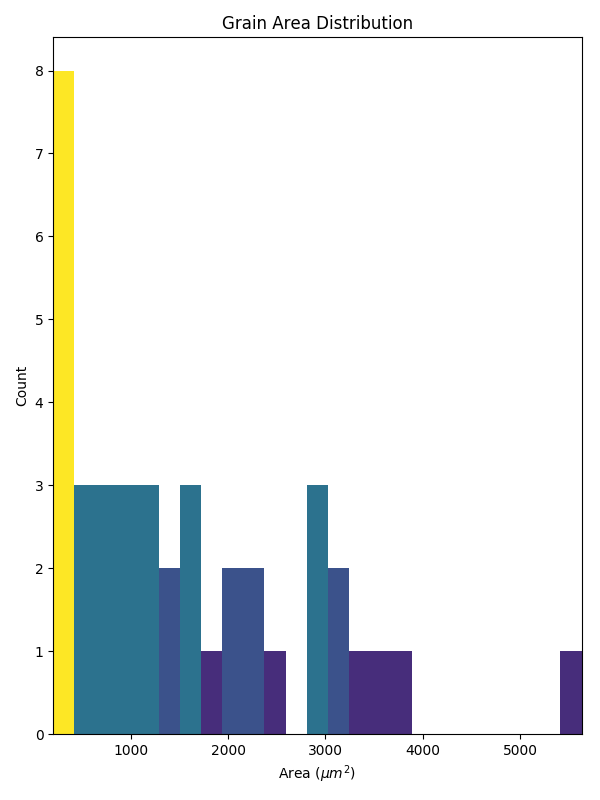
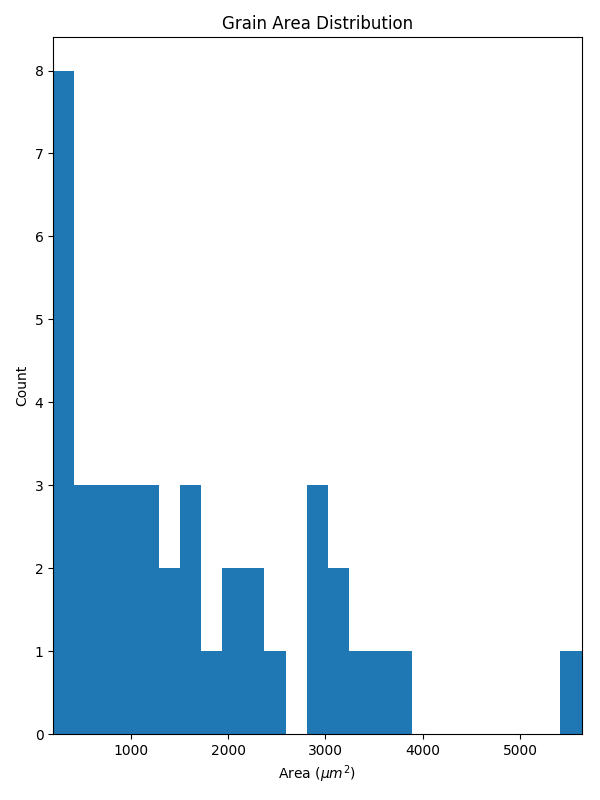
updates to examples and docs

Changed region(s): [[0.09, 0.0625, 0.48, 0.9375], [0.51, 0.5938, 0.69, 0.9375], [0.93, 0.8125, 0.99, 0.9375]]

diff --git a/grains/analysis.py b/grains/analysis.py
@@ -12,12 +12,13 @@ class GrainsAnalyzer(object):
 
     Determines the number and area distribution of grains 
     in a given image with built-in text summarization.
-    
-    Attributes:
+
+    Args:
         input_fn:       filename of the image being analyzed.
         height_microns: height of the image content in micrometers.
         width_microns:  width of the image content in micrometers.
-
+    
+    Attributes:
         base_image:     input image as an array.
         working_image:  input_image as an array after preprocessing.
         contours:       OpenCV contours detected in the working_image.
@@ -26,7 +27,7 @@ class GrainsAnalyzer(object):
     """
 
     def __init__(self, input_fn, height_microns, width_microns):
-        """Inits GrainsAnalyzer object with required information
+        """Inits GrainsAnalyzer object with required information.
         
         Args:
             input_fn:       filename of the image being analyzed
@@ -50,7 +51,7 @@ class GrainsAnalyzer(object):
 
     @property
     def total_count(self):
-        """Returns the number of grains detected.
+        """(int) The number of grains detected.
         
         Raises:
             ContoursError
@@ -62,12 +63,11 @@ class GrainsAnalyzer(object):
 
     @property
     def areas(self):
-        """Returns the area of each detected grain in square micrometers.
+        """(list of float): The area of each detected grain in square micrometers.
         
         Raises:
             ContoursError
         """
-
         # check runtime order
         if self.contours is None:
             raise errors.ContoursError("self.contours has not yet been set.\nRun Grains().set_contours to do so.")
@@ -81,22 +81,19 @@ class GrainsAnalyzer(object):
 
     @property
     def area_mean(self):
-        """Returns the mean grain area in micrometers squared (ASTM E112 planimetric method)."""
-
+        """(float): The mean grain area in micrometers squared (ASTM E112 planimetric method)."""
         mean = np.sum(self.areas)/len(self.areas)
         return mean
 
     @property
     def area_variance(self):
-        """Returns the variance of grain areas in micrometers squared."""
-
+        """(float): The variance of grain areas in micrometers squared."""
         var = np.var(self.areas)
         return var
 
     @property
     def area_stdev(self):
-        """Returns the standard deviation of grain areas in micrometers squared."""
-
+        """(float): The standard deviation of grain areas in micrometers squared."""
         stdev = np.std(self.areas)
         return stdev
 
@@ -112,8 +109,10 @@ class GrainsAnalyzer(object):
             maxval:     passed to cv2.threshold()
             kernel:     passed to cv2.threshold()
             iterations: passed to cv2.morphologyEx() for the `MORPH_OPEN` operation 
+        
+        Returns:
+            None
         """
-
         # process args
         if thresh is None:
             thresh = 50
@@ -139,8 +138,10 @@ class GrainsAnalyzer(object):
         
         Raises:
             WorkingImageError
-        """
 
+        Returns:
+            None
+        """
         # check runtime order
         if self.working_image is None:
             raise errors.WorkingImageError("self.working_image has not yet been set.\nRun Grains().preprocess_image() to do so.")
@@ -157,8 +158,10 @@ class GrainsAnalyzer(object):
 
         Raises:
             ContoursError
-        """
 
+        Returns:
+            None
+        """
         # check runtime order
         if self.contours is None:
             raise errors.ContoursError("self.contours has not yet been set.\nRun Grains().set_contours() to do so.")
@@ -174,8 +177,10 @@ class GrainsAnalyzer(object):
 
         Raises:
             MomentsError
-        """
 
+        Returns:
+            None
+        """
         # check runtime order
         if self.moments is None:
             raise errors.MomentsError("self.moments has not yet been set.\nRun Grains().set_moments() to do so.")
@@ -194,7 +199,14 @@ class GrainsAnalyzer(object):
         self.centroids = centroids         
 
     def write_summary(self, filename):
-        """Writes the summary text file."""
+        """Writes the summary text file.
+        
+        Args:
+            filename: Name to give the summary file.
+
+        Returns:
+            None
+        """
 
         with open(filename, "w") as f:
             input_fn = os.path.basename(self.input_fn)

diff --git a/grains/graphics.py b/grains/graphics.py
@@ -15,8 +15,10 @@ def write_centroids_image(img, centroids, filename, color=None, thickness=None, 
         color:     BGR tuple for circle color
         thickness: circle thickness (< 0 for solid or > 0 for hollow)
         radius:    circle radius
+
+    Returns:
+        None
     """
-    
     # process args
     if color is None:
         color = (0, 0, 255)
@@ -45,8 +47,10 @@ def write_histogram(data, filename, title=None, xlabel=None, ylabel=None, xlim=N
         bins:     passed to ax.hist()
         colormap: a plt.cm used to style the histogram bars
         figsize:  passed to plt.subplots()
+
+    Returns:
+        None
     """
-    
     # process args
     if title is None:
         title = "Grain Area Distribution"
@@ -58,15 +62,14 @@ def write_histogram(data, filename, title=None, xlabel=None, ylabel=None, xlim=N
         xlim = (min(data), max(data))
     if bins is None:
         bins = 25
-    if colormap is None:
-        colormap = plt.cm.viridis
     if figsize is None:
         figsize = (6, 8)
     # make plot
     _, ax = plt.subplots(tight_layout=True, figsize=figsize)
     n, _, patches = ax.hist(data, bins=bins)
     fractions = n/n.max()
-    _color_normalization(fractions, patches, colormap)
+    if colormap is not None:
+        _color_normalization(fractions, patches, colormap)
     plt.title(title)
     plt.xlabel(xlabel)
     plt.ylabel(ylabel)
@@ -81,8 +84,10 @@ def _color_normalization(fractions, patches, colormap):
         fractions: 0-1 value used to map a color intensity to a bar height
         patches:   list of histogram bars (? unsure of the exact type ?)
         colormap:  plt.cm used to assign colors
+
+    Returns:
+        None
     """
-    
     norm = colors.Normalize(fractions.min(), fractions.max())
     for f, p in zip(fractions, patches):
         color = colormap(norm(f))

diff --git a/examples/main.py b/examples/main.py
@@ -1,5 +1,6 @@
 import grains
 
+
 if __name__ == "__main__":
     # in this example the width and height are not to scale
     ga = grains.analysis.GrainsAnalyzer(input_fn="test_grains.jpg", 
@@ -10,7 +11,7 @@ if __name__ == "__main__":
     ga.set_contours()      # find contours
     ga.set_moments()       # find moments from those contours
     ga.set_centroids()     # find centroids from those moments
-    ga.write_summary("test_grains.summary.txt")     # write basic text file summary of the findings
+    ga.write_summary("test_grains.summary.txt")  # write basic text file summary of the findings
     
     # write image with red dots superimposed over each detected centroid (grain center)
     grains.graphics.write_centroids_image(img=ga.base_image,

diff --git a/README.md b/README.md
@@ -1,24 +1,30 @@
 # Summary
 
-grains is a software package for the tens of tech savy metallurgists and ceramists out there who are tired of counting grains by hand. The goal of this project is to accelerate the process of grain analysis by applying modern computer vision algorithms. This package does not yet have a stable release. 
+grains is a software package for the tech savy metallurgists and ceramists out
+there who are tired of counting grains by hand. The goal of this project is to
+accelerate the process of grain analysis by applying modern computer vision
+algorithms.
 
 # Example
 
-This example showcases the basic functionality of the grains software library. Please note that the scale in this example is ARBITRARY as I have not yet found adequate validation images. Refer to the [examples](./examples) directory for the simple source code used to generate these results. 
+This example showcases the basic functionality of the grains software library.
+Please note that the scale in this example is arbitrary as I have not yet found
+adequate validation images. Refer to the [examples](./examples) directory for
+the simple source code used to generate these results.
 
-### Input Image
+## Input Image
 
 <img src=./examples/test_grains.jpg width=300>
 
-### Centroids Image - Default Settings
+## Centroids Image - Default Settings
 
 <img src=./examples/test_grains.centroids.png width=300>
 
-### Area Histogram - Default Settings
+## Area Histogram - Default Settings
 
 <img src=./examples/test_grains.histogram.png width=450>
 
-### Text Summarization - Default Settings
+## Text Summarization - Default Settings
 
     Automatically Generated by grains
 
@@ -37,8 +43,10 @@ This example showcases the basic functionality of the grains software library. P
 
 - ~~Calculate average grain size in accordance with ASTM E112~~
 
+- ~~Wrap functionality into a simple CLI~~
+
+- ~~Package for pip install~~
+
 - Validate performance against relevant literature
 
-- Wrap functionality into a simple CLI
-
-- Package for pip install
+- Make official release on Github
